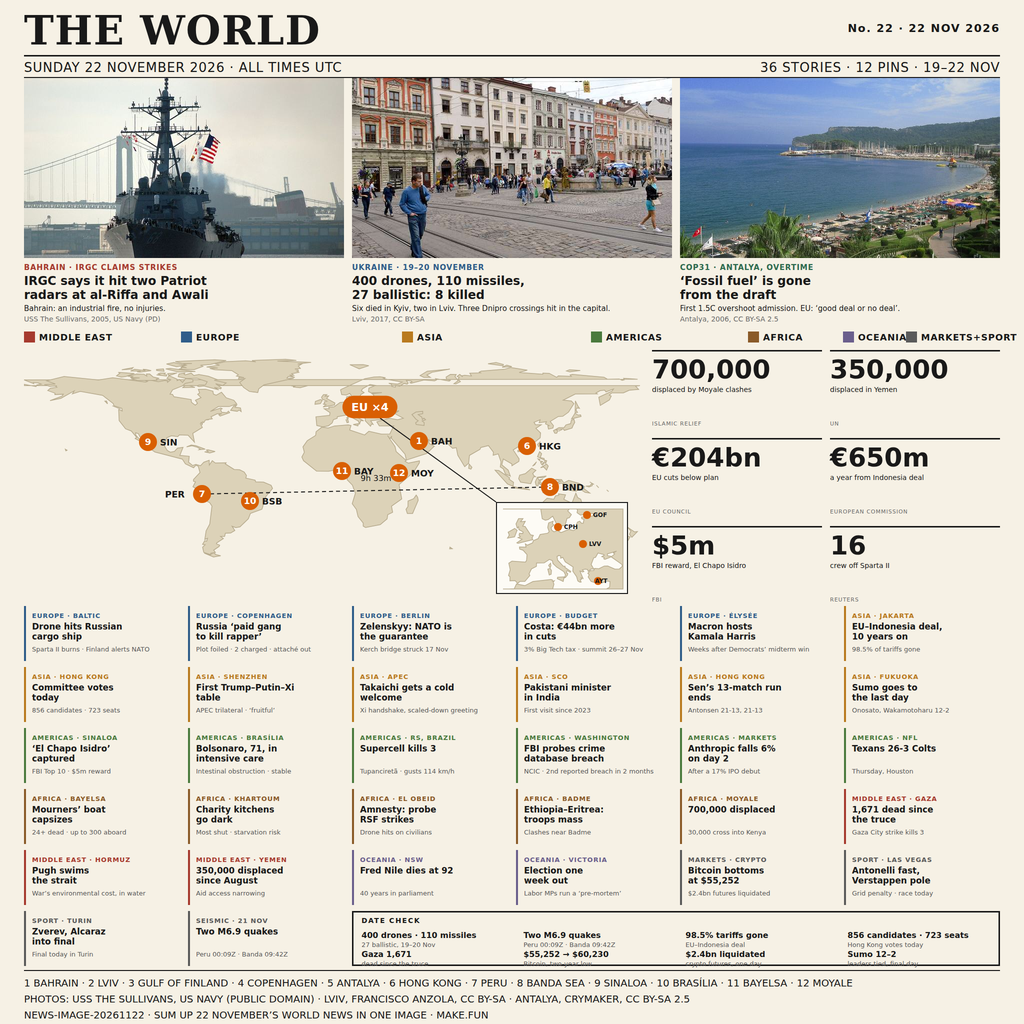
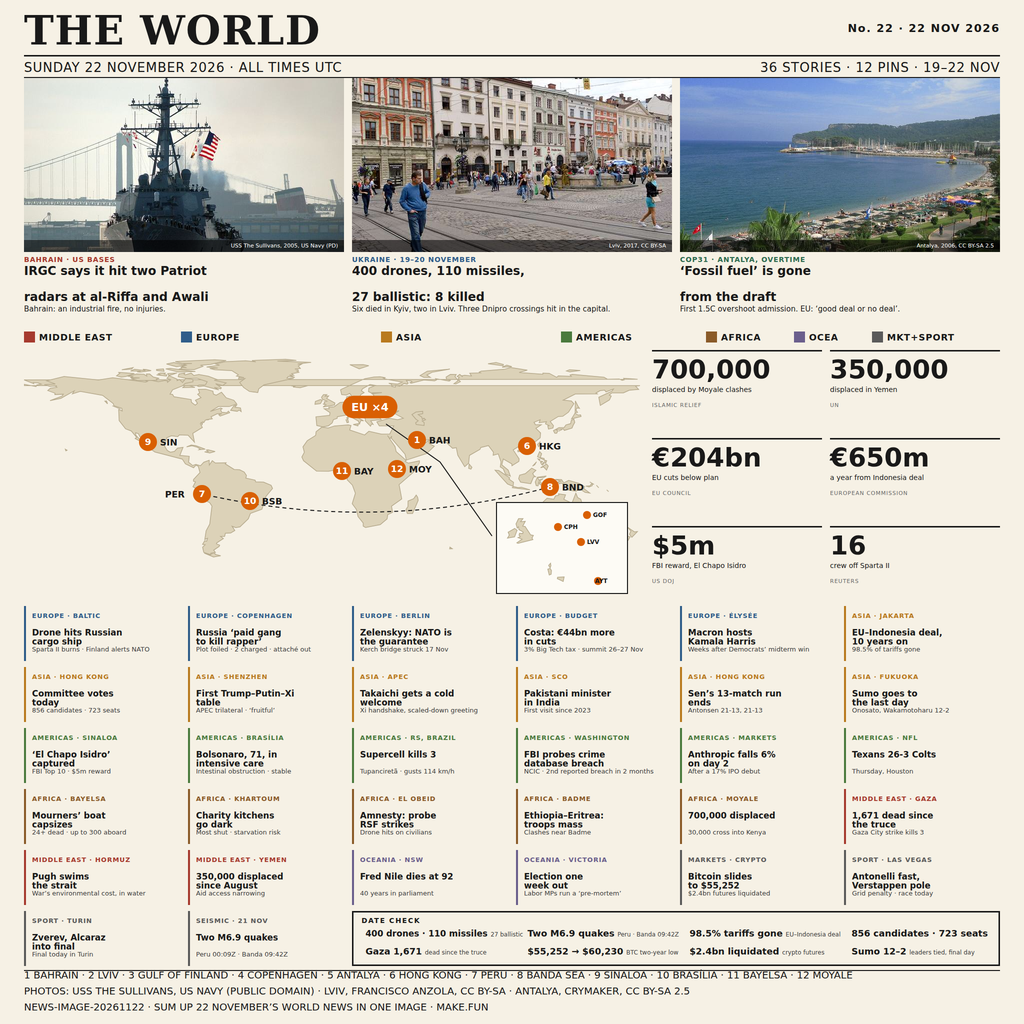
news-image-20261122 v2: Superbot synthesis fix round (DATE CHECK one-line, region rebalance, inset cleanup, hero caption rework, rail/footer fixes)

diff --git a/build/front.html b/build/front.html
@@ -10,11 +10,11 @@ body { width:2048px; height:2048px; background:#F6F1E5; font-family:'DejaVu Sans
 .datel { position:absolute; left:48px; top:120px; font-size:26px; letter-spacing:1px; }
 .dater { position:absolute; right:48px; top:120px; font-size:26px; letter-spacing:1px; }
 .hero { position:absolute; top:156px; width:640px; height:492px; }
-.hero img { width:640px; height:360px; display:block; object-fit:cover; }
-.hero .kick { margin-top:10px; font-size:15px; font-weight:bold; letter-spacing:1px; }
-.hero .head { margin-top:4px; font-size:24px; font-weight:bold; line-height:28px; }
-.hero .dek { margin-top:4px; font-size:15px; line-height:18px; }
-.hero .cred { margin-top:4px; font-size:14px; color:#6B6B6B; }
+.hero img { width:640px; height:348px; display:block; object-fit:cover; }
+.hero .kick { position:absolute; left:0; top:355px; font-size:14px; font-weight:bold; letter-spacing:1px; }
+.hero .head { position:absolute; left:0; top:360px; font-size:24px; font-weight:bold; line-height:52px; }
+.hero .dek { position:absolute; left:0; top:453px; font-size:15px; line-height:18px; }
+.hero .scrim { position:absolute; left:0; top:324px; width:640px; height:24px; background:rgba(0,0,0,0.55); color:#FFFFFF; font-size:11px; line-height:24px; text-align:right; padding-right:12px; }
 .key { position:absolute; top:648px; height:52px; }
 .key .sw { position:absolute; left:0; top:15px; width:22px; height:22px; }
 .key .nm { position:absolute; left:30px; top:16px; font-size:18px; font-weight:bold; letter-spacing:1px; white-space:nowrap; }
@@ -24,17 +24,17 @@ body { width:2048px; height:2048px; background:#F6F1E5; font-family:'DejaVu Sans
 .rail { position:absolute; width:340px; height:160px; border-top:3px solid #191919; }
 .rail .fig { font-size:52px; font-weight:bold; line-height:56px; margin-top:8px; }
 .rail .lab { font-size:14px; line-height:17px; margin-top:4px; }
-.rail .src { position:absolute; bottom:6px; left:0; font-size:11px; letter-spacing:1px; color:#6B6B6B; }
+.rail .src { position:absolute; top:101px; left:0; font-size:11px; letter-spacing:1px; color:#6B6B6B; }
 .card { position:absolute; width:312px; height:110px; }
 .card .edge { position:absolute; left:0; top:0; width:4px; height:110px; }
 .card .kick { position:absolute; left:16px; top:12px; font-size:13px; font-weight:bold; letter-spacing:1px; white-space:nowrap; }
-.card .head { position:absolute; left:16px; top:31px; width:284px; font-size:17px; font-weight:bold; line-height:20px; }
-.card .det { position:absolute; left:16px; top:79px; font-size:13px; color:#5A5A5A; white-space:nowrap; }
+.card .head { position:absolute; left:16px; top:44px; width:284px; font-size:17px; font-weight:bold; line-height:18.4px; }
+.card .det { position:absolute; left:16px; top:79px; font-size:13px; color:#404040; white-space:nowrap; }
 .dc { position:absolute; left:704px; top:1822px; width:1296px; height:110px; border:3px solid #191919; }
 .dc .lab { position:absolute; left:16px; top:8px; font-size:14px; font-weight:bold; letter-spacing:2px; }
-.dc .cell { position:absolute; width:316px; }
-.dc .fig { font-size:16px; font-weight:bold; white-space:nowrap; }
-.dc .sub { font-size:13px; color:#5A5A5A; margin-top:2px; white-space:nowrap; }
+.dc .cell { position:absolute; width:316px; line-height:18px; white-space:nowrap; }
+.dc .fig { font-size:18px; font-weight:bold; white-space:nowrap; }
+.dc .sub { font-size:12px; color:#404040; margin-left:6px; white-space:nowrap; }
 .foot { position:absolute; left:48px; font-size:20px; line-height:32px; }
 </style></head><body>
 
@@ -51,45 +51,44 @@ body { width:2048px; height:2048px; background:#F6F1E5; font-family:'DejaVu Sans
 <!-- HEROES 156-648 -->
 <div class="hero" style="left:48px;">
   <img src="hero1.jpg" alt="USS The Sullivans">
-  <div class="kick" style="color:#A63A2E;">BAHRAIN &middot; IRGC CLAIMS STRIKES</div>
+  <div class="kick" style="color:#A63A2E;">BAHRAIN &middot; US BASES</div>
   <div class="head">IRGC says it hit two Patriot<br>radars at al-Riffa and Awali</div>
   <div class="dek">Bahrain: an industrial fire, no injuries.</div>
-  <div class="cred">USS The Sullivans, 2005, US Navy (PD)</div>
+  <div class="scrim">USS The Sullivans, 2005, US Navy (PD)</div>
 </div>
 <div class="hero" style="left:704px;">
   <img src="hero2.jpg" alt="Lviv street">
   <div class="kick" style="color:#2F5D8A;">UKRAINE &middot; 19&ndash;20 NOVEMBER</div>
   <div class="head">400 drones, 110 missiles,<br>27 ballistic: 8 killed</div>
   <div class="dek">Six died in Kyiv, two in Lviv. Three Dnipro crossings hit in the capital.</div>
-  <div class="cred">Lviv, 2017, CC BY-SA</div>
+  <div class="scrim">Lviv, 2017, CC BY-SA</div>
 </div>
 <div class="hero" style="left:1360px;">
   <img src="hero3.jpg" alt="Antalya coast">
   <div class="kick" style="color:#2E6B4F;">COP31 &middot; ANTALYA, OVERTIME</div>
   <div class="head">&lsquo;Fossil fuel&rsquo; is gone<br>from the draft</div>
   <div class="dek">First 1.5C overshoot admission. EU: &lsquo;good deal or no deal&rsquo;.</div>
-  <div class="cred">Antalya, 2006, CC BY-SA 2.5</div>
+  <div class="scrim">Antalya, 2006, CC BY-SA 2.5</div>
 </div>
 
 <!-- REGION STRIP 648-700 -->
 <div class="key" style="left:48px; width:314px;"><div class="sw" style="background:#A63A2E;"></div><div class="nm">MIDDLE EAST</div></div>
-<div class="key" style="left:362px; width:442px;"><div class="sw" style="background:#2F5D8A;"></div><div class="nm">EUROPE</div></div>
-<div class="key" style="left:804px; width:378px;"><div class="sw" style="background:#B97A1E;"></div><div class="nm">ASIA</div></div>
-<div class="key" style="left:1182px; width:314px;"><div class="sw" style="background:#4A7A3D;"></div><div class="nm">AMERICAS</div></div>
-<div class="key" style="left:1496px; width:190px;"><div class="sw" style="background:#8A5A28;"></div><div class="nm">AFRICA</div></div>
-<div class="key" style="left:1686px; width:126px;"><div class="sw" style="background:#6A5E8C;"></div><div class="nm">OCEANIA</div></div>
-<div class="key" style="left:1812px; width:188px;"><div class="sw" style="background:#5A5A5A;"></div><div class="nm">MARKETS+SPORT</div></div>
+<div class="key" style="left:362px; width:400px;"><div class="sw" style="background:#2F5D8A;"></div><div class="nm">EUROPE</div></div>
+<div class="key" style="left:762px; width:360px;"><div class="sw" style="background:#B97A1E;"></div><div class="nm">ASIA</div></div>
+<div class="key" style="left:1122px; width:290px;"><div class="sw" style="background:#4A7A3D;"></div><div class="nm">AMERICAS</div></div>
+<div class="key" style="left:1412px; width:176px;"><div class="sw" style="background:#8A5A28;"></div><div class="nm">AFRICA</div></div>
+<div class="key" style="left:1588px; width:156px;"><div class="sw" style="background:#6A5E8C;"></div><div class="nm">OCEA</div></div>
+<div class="key" style="left:1744px; width:256px;"><div class="sw" style="background:#5A5A5A;"></div><div class="nm">MKT+SPORT</div></div>
 
 <!-- MAP + NUMBERS 700-1212 -->
 <svg width="1232" height="512" viewBox="0 0 1232 512" style="position:absolute; left:48px; top:700px;">
   <g transform="translate(-48,-700)" fill="#DCD2B8" stroke="#B7AB8E" stroke-width="1.5"><path d="M432.1,1109.2 L441.4,1111.6 L427.1,1113.9 L408.5,1106.3 L420.7,1109.8 L426.7,1105.4 L432.1,1109.2 Z"/><path d="M904.5,1097.4 L899.3,1097.6 L899.9,1094.3 L904.5,1097.4 Z"/><path d="M1161.6,1072.0 L1171.5,1072.3 L1170.2,1078.9 L1163.8,1079.9 L1159.3,1073.1 L1161.6,1072.0 Z"/><path d="M1256.1,1072.4 L1260.3,1073.6 L1256.3,1080.7 L1243.5,1088.7 L1234.4,1087.5 L1256.1,1072.4 Z"/><path d="M1261.6,1058.8 L1268.9,1063.7 L1274.9,1063.2 L1263.7,1074.6 L1258.9,1068.4 L1261.9,1062.3 L1254.8,1054.2 L1261.6,1058.8 Z"/><path d="M1235.9,1019.0 L1225.3,1013.2 L1235.9,1019.0 Z"/><path d="M835.3,994.6 L836.4,1000.7 L825.2,1026.9 L814.7,1027.1 L812.0,1018.7 L815.9,1013.1 L816.1,1002.1 L827.3,997.5 L832.4,990.2 L835.3,994.6 Z"/><path d="M1155.3,995.1 L1161.5,998.6 L1165.0,1009.9 L1173.4,1014.0 L1188.1,1030.2 L1187.9,1044.0 L1177.3,1062.5 L1164.7,1067.0 L1160.3,1063.8 L1155.5,1066.4 L1145.3,1064.1 L1136.7,1057.3 L1137.0,1053.8 L1132.3,1056.3 L1135.6,1049.6 L1129.4,1055.2 L1123.5,1048.8 L1113.4,1045.6 L1067.9,1055.7 L1057.6,1053.3 L1059.9,1045.9 L1051.9,1030.3 L1054.9,1030.8 L1052.1,1025.4 L1054.6,1017.9 L1054.9,1020.0 L1077.6,1012.0 L1094.1,996.5 L1107.6,998.6 L1111.0,991.7 L1117.7,990.5 L1117.0,987.7 L1131.1,989.7 L1127.7,998.7 L1143.9,1006.4 L1151.7,986.3 L1155.3,995.1 Z"/><path d="M1217.3,983.3 L1213.5,979.7 L1217.3,983.3 Z"/><path d="M1089.9,984.8 L1086.5,985.1 L1092.1,980.6 L1099.8,979.9 L1089.9,984.8 Z"/><path d="M1035.7,975.3 L1043.0,974.4 L1060.0,979.8 L1024.6,975.5 L1026.9,972.8 L1035.7,975.3 Z"/><path d="M1197.5,975.4 L1192.8,970.6 L1197.5,975.4 Z"/><path d="M1184.1,971.6 L1178.2,974.0 L1171.6,972.3 L1180.1,971.5 L1182.6,967.9 L1185.3,968.3 L1184.1,971.6 Z"/><path d="M1188.1,968.8 L1179.6,963.8 L1188.1,968.8 Z"/><path d="M1123.1,959.3 L1127.6,965.6 L1137.4,960.8 L1158.8,967.0 L1169.3,973.3 L1167.7,977.0 L1179.7,986.1 L1170.2,984.8 L1159.3,977.7 L1152.1,982.5 L1134.9,979.9 L1138.6,976.8 L1136.0,971.3 L1121.4,966.1 L1119.1,967.7 L1115.7,964.0 L1121.5,962.3 L1110.7,958.7 L1123.1,959.3 Z"/><path d="M1092.6,952.0 L1087.3,955.3 L1075.3,955.3 L1077.9,960.0 L1086.1,957.8 L1079.8,961.4 L1085.5,971.2 L1079.8,969.0 L1078.0,963.5 L1076.1,971.7 L1072.5,971.3 L1070.4,964.0 L1074.8,954.4 L1092.6,952.0 Z"/><path d="M1026.1,972.6 L1015.1,968.0 L990.1,940.4 L997.6,941.1 L1019.4,955.7 L1018.0,958.0 L1027.1,964.7 L1026.1,972.6 Z"/><path d="M1067.4,950.8 L1071.2,953.4 L1067.2,953.8 L1061.5,967.4 L1041.2,964.3 L1037.3,957.3 L1039.3,950.3 L1050.7,947.2 L1063.5,936.3 L1071.9,940.6 L1065.5,946.8 L1067.4,950.8 Z"/><path d="M1096.5,932.1 L1093.1,940.1 L1087.0,933.7 L1081.2,935.5 L1093.2,928.2 L1096.5,932.1 Z"/><path d="M941.9,938.4 L937.3,936.8 L938.3,928.1 L943.9,934.6 L941.9,938.4 Z"/><path d="M1088.3,926.8 L1084.9,930.3 L1082.8,928.4 L1088.6,924.1 L1088.3,926.8 Z"/><path d="M1069.5,929.5 L1065.0,932.2 L1073.0,923.7 L1069.5,929.5 Z"/><path d="M1081.1,922.2 L1085.3,923.0 L1081.5,926.3 L1081.1,922.2 Z"/><path d="M1093.5,921.4 L1091.1,927.2 L1089.3,920.3 L1093.5,921.4 Z"/><path d="M1079.9,918.8 L1079.0,921.3 L1075.8,917.7 L1079.9,918.8 Z"/><path d="M1079.2,903.4 L1083.3,907.4 L1080.6,915.2 L1088.2,916.8 L1088.6,920.3 L1074.9,913.4 L1079.2,903.4 Z"/><path d="M415.6,899.5 L430.2,903.1 L419.6,905.9 L409.2,903.8 L416.5,902.9 L412.8,900.1 L415.6,899.5 Z"/><path d="M1041.6,902.9 L1035.8,903.4 L1035.7,900.9 L1043.1,898.9 L1041.6,902.9 Z"/><path d="M131.7,901.7 L130.6,898.4 L134.2,900.5 L131.7,901.7 Z"/><path d="M391.3,891.2 L410.2,898.3 L397.9,899.5 L400.2,897.9 L394.6,894.6 L384.1,891.6 L373.2,893.7 L382.5,890.0 L391.3,891.2 Z"/><path d="M1078.7,891.2 L1077.2,893.5 L1075.0,889.0 L1079.8,884.0 L1078.7,891.2 Z"/><path d="M1124.8,858.9 L1117.0,862.2 L1124.8,858.9 Z"/><path d="M717.1,847.3 L715.7,851.8 L706.5,849.0 L717.1,847.3 Z"/><path d="M695.5,838.8 L697.1,844.6 L694.1,845.3 L691.9,839.5 L695.5,838.8 Z"/><path d="M1146.4,850.4 L1144.0,856.1 L1128.7,860.8 L1126.3,857.6 L1112.3,859.6 L1115.7,861.7 L1113.4,866.5 L1109.6,866.6 L1106.9,861.3 L1117.8,855.2 L1128.3,854.9 L1131.9,849.9 L1141.2,847.3 L1142.7,840.6 L1147.8,838.3 L1149.6,844.6 L1146.4,850.4 Z"/><path d="M696.7,836.1 L695.6,838.3 L693.2,835.8 L696.1,833.7 L696.7,836.1 Z"/><path d="M1156.5,830.3 L1161.3,829.8 L1162.1,832.9 L1143.0,837.8 L1149.9,826.4 L1156.5,830.3 Z"/><path d="M241.3,818.0 L224.7,811.6 L241.3,818.0 Z"/><path d="M471.9,811.8 L469.6,814.3 L481.0,815.9 L482.4,823.3 L478.4,820.2 L474.4,822.6 L461.2,820.6 L467.7,811.7 L474.4,809.3 L471.9,811.8 Z"/><path d="M209.8,802.3 L213.1,802.1 L215.1,807.6 L209.8,802.3 Z"/><path d="M1155.6,811.7 L1159.0,816.7 L1154.0,815.8 L1151.9,819.9 L1155.1,824.8 L1150.3,825.2 L1150.7,801.8 L1155.6,811.7 Z"/><path d="M640.8,807.3 L629.9,808.6 L630.8,802.7 L641.0,799.1 L644.6,800.8 L640.8,807.3 Z"/><path d="M653.7,789.2 L650.1,792.3 L657.3,791.9 L653.3,796.8 L669.8,806.0 L669.0,810.1 L646.1,813.9 L652.3,809.7 L646.0,808.1 L649.6,807.2 L648.3,803.8 L653.9,802.4 L644.9,798.7 L643.0,794.5 L646.9,789.2 L653.7,789.2 Z"/><path d="M372.6,769.2 L389.9,774.7 L365.5,775.3 L372.6,769.2 Z"/><path d="M614.3,767.0 L617.4,770.8 L600.2,775.4 L586.1,774.1 L589.5,772.8 L582.0,771.4 L587.9,770.0 L580.7,769.4 L614.3,767.0 Z"/><path d="M48.0,759.8 L67.4,767.3 L66.6,765.2 L75.9,765.7 L82.6,768.3 L73.6,769.9 L72.1,773.2 L48.4,768.6 L48.0,771.2 L1280.0,771.2 L1271.1,772.2 L1277.4,778.8 L1258.4,780.6 L1246.9,785.7 L1223.7,785.7 L1218.5,790.3 L1222.5,792.1 L1218.8,800.0 L1200.6,810.9 L1197.6,794.5 L1224.1,782.1 L1226.9,778.1 L1212.0,783.8 L1209.2,780.3 L1200.3,781.3 L1191.8,786.0 L1194.6,787.8 L1150.6,788.1 L1126.4,800.3 L1142.8,801.9 L1147.8,807.4 L1137.0,824.3 L1125.6,832.6 L1116.7,832.9 L1100.4,842.9 L1107.0,851.4 L1105.8,856.2 L1096.9,858.2 L1095.6,851.5 L1098.1,851.1 L1090.8,847.6 L1092.9,843.5 L1078.3,845.4 L1080.3,839.5 L1068.0,844.5 L1070.9,849.5 L1082.7,849.5 L1071.8,856.7 L1081.2,865.9 L1080.4,875.7 L1060.6,891.2 L1043.1,895.1 L1042.0,898.1 L1035.4,894.2 L1026.4,899.8 L1038.2,917.8 L1037.7,922.8 L1023.9,931.5 L1023.6,927.8 L1006.6,917.9 L1003.6,929.7 L1016.4,940.3 L1020.7,952.3 L1011.0,948.1 L1006.5,937.6 L1000.5,933.8 L1002.0,923.5 L996.5,907.8 L986.3,910.4 L986.8,904.2 L976.9,891.2 L961.6,894.9 L960.0,898.7 L938.9,910.8 L937.3,926.5 L929.4,933.3 L915.6,910.5 L912.6,895.3 L905.2,896.6 L891.1,883.7 L860.4,882.8 L857.3,878.8 L851.2,880.7 L840.3,876.7 L835.5,870.2 L828.2,870.7 L837.9,885.6 L840.6,882.6 L841.3,887.7 L848.8,887.4 L856.9,880.9 L858.5,887.0 L868.7,892.5 L853.2,907.0 L812.8,920.1 L810.0,908.3 L782.5,876.2 L783.5,872.1 L780.1,877.4 L775.0,871.1 L790.2,893.4 L792.3,903.1 L812.2,920.8 L810.2,922.6 L816.7,926.3 L838.9,921.8 L838.7,925.7 L827.4,944.0 L798.2,969.3 L803.5,997.8 L783.0,1012.3 L785.3,1024.6 L775.5,1029.2 L774.2,1037.8 L760.6,1049.2 L731.1,1055.0 L726.4,1052.3 L726.4,1046.1 L716.1,1033.1 L712.8,1018.9 L704.4,1007.4 L710.8,986.5 L704.8,970.3 L694.1,959.2 L696.2,945.4 L693.1,942.4 L684.2,943.9 L678.8,938.2 L657.3,942.6 L633.2,942.3 L607.1,921.4 L603.7,914.1 L608.7,904.5 L605.9,893.7 L614.6,881.3 L631.3,870.9 L632.2,863.4 L643.7,854.3 L656.6,856.0 L669.0,851.9 L696.5,849.8 L702.0,851.0 L699.4,859.9 L729.3,869.9 L737.7,862.6 L762.9,868.2 L779.6,867.9 L787.7,851.7 L758.6,851.7 L753.6,843.7 L778.7,836.5 L795.2,839.5 L806.7,836.6 L789.5,827.3 L797.9,821.6 L783.6,824.4 L788.3,827.7 L780.0,829.8 L775.1,827.1 L778.0,824.9 L769.2,823.5 L758.7,834.9 L762.6,839.2 L741.4,841.5 L746.3,848.9 L743.1,848.1 L741.0,852.4 L730.4,841.5 L730.9,837.3 L709.0,825.9 L707.1,830.6 L727.2,841.7 L721.7,841.0 L719.1,847.9 L716.7,842.1 L694.4,829.8 L674.6,833.5 L674.4,836.8 L666.8,839.3 L664.4,845.8 L656.7,851.7 L645.6,853.8 L633.6,851.1 L631.9,833.6 L659.3,830.8 L659.9,825.1 L648.3,817.5 L658.5,817.6 L657.4,814.4 L668.6,813.4 L680.1,805.0 L691.8,803.7 L693.2,793.6 L700.2,791.8 L701.3,795.4 L697.0,798.2 L701.4,802.4 L731.3,801.2 L736.8,799.0 L737.9,792.7 L746.6,793.8 L747.6,789.9 L743.9,787.6 L763.7,785.3 L742.3,785.8 L737.0,783.3 L737.7,776.3 L750.9,770.8 L739.9,769.1 L725.1,777.5 L722.6,781.5 L728.3,785.1 L721.6,789.0 L718.4,796.4 L708.3,798.5 L699.4,786.8 L692.7,790.1 L683.4,789.3 L681.1,779.7 L684.2,777.9 L729.6,757.4 L748.0,754.0 L760.4,753.5 L771.1,755.6 L766.7,756.4 L770.4,758.1 L804.5,764.1 L795.4,768.3 L777.6,766.5 L783.1,768.6 L783.6,772.8 L790.7,774.4 L791.2,770.7 L799.5,772.5 L808.1,766.9 L814.4,768.1 L816.4,766.1 L812.7,761.0 L822.3,761.9 L824.2,763.5 L819.9,765.4 L822.6,766.4 L847.8,760.1 L869.1,761.8 L873.0,759.9 L871.2,757.3 L898.5,762.3 L900.7,760.8 L893.0,758.4 L892.2,754.0 L900.8,748.8 L912.4,749.0 L909.9,752.9 L916.1,761.4 L907.9,767.4 L911.9,767.8 L920.8,763.3 L915.9,757.9 L918.6,755.1 L914.2,752.8 L919.5,748.8 L925.3,753.6 L923.8,751.6 L929.5,750.4 L942.9,751.9 L939.5,746.5 L961.1,745.7 L958.3,744.2 L962.3,742.3 L1008.8,738.6 L1021.1,735.0 L1054.6,740.3 L1038.4,745.0 L1085.6,748.4 L1085.8,746.3 L1098.5,746.7 L1113.3,754.7 L1116.6,751.7 L1142.7,752.7 L1140.2,750.0 L1144.7,748.8 L1208.1,754.4 L1214.8,758.5 L1238.4,758.1 L1244.3,760.6 L1248.6,759.7 L1247.3,756.6 L1275.2,758.6 L48.0,759.8 Z"/><path d="M832.1,838.6 L836.5,841.5 L831.2,845.6 L832.4,849.1 L848.2,850.9 L848.4,845.2 L844.3,842.1 L851.3,839.5 L847.8,836.2 L844.7,839.0 L843.7,834.3 L836.2,829.1 L845.5,827.3 L845.5,822.7 L832.0,824.0 L823.8,829.1 L832.1,838.6 Z"/><path d="M354.1,758.3 L354.1,761.2 L358.7,759.0 L365.1,764.9 L371.3,757.2 L381.2,757.9 L385.8,759.3 L385.9,763.7 L370.5,766.7 L365.2,771.7 L345.2,779.6 L340.0,788.3 L345.0,788.8 L348.1,793.6 L382.4,799.1 L382.9,804.5 L390.5,810.3 L395.0,806.5 L390.8,800.5 L402.1,795.2 L395.3,788.7 L399.3,785.8 L396.7,778.7 L411.3,778.4 L425.8,782.3 L426.9,788.3 L432.5,790.4 L443.0,784.4 L452.5,795.7 L467.8,800.6 L473.4,807.7 L458.6,813.1 L436.8,813.1 L420.7,822.8 L441.4,816.0 L444.4,817.4 L441.2,819.3 L443.4,824.5 L453.5,825.5 L456.9,822.3 L459.3,825.4 L440.3,832.1 L437.6,829.5 L443.5,827.2 L434.2,827.6 L422.1,833.6 L424.6,837.6 L411.8,839.6 L417.8,839.6 L410.9,840.1 L407.6,845.2 L405.5,843.6 L404.1,850.1 L402.7,844.6 L400.6,847.3 L404.8,854.9 L385.6,866.6 L388.9,884.3 L376.2,870.4 L358.8,869.8 L355.5,873.2 L342.8,871.5 L333.4,875.5 L329.1,892.2 L334.5,901.0 L340.8,904.4 L349.0,902.8 L355.0,896.3 L366.1,894.7 L359.7,910.8 L378.5,912.6 L377.2,924.4 L385.3,931.0 L391.7,928.7 L401.0,931.4 L407.6,924.5 L418.4,920.6 L418.6,930.2 L424.6,921.4 L430.6,926.0 L452.2,925.5 L450.5,927.7 L468.4,939.0 L479.3,939.6 L488.4,944.0 L493.0,951.1 L491.6,956.2 L510.3,960.4 L511.4,963.7 L527.2,964.2 L542.2,970.6 L545.1,976.9 L531.7,993.1 L523.9,1018.4 L500.9,1026.8 L496.7,1037.6 L479.9,1053.8 L471.6,1055.2 L464.1,1052.5 L469.7,1061.0 L461.3,1066.1 L450.7,1066.4 L449.3,1072.7 L441.1,1072.8 L446.8,1077.1 L433.7,1085.6 L432.7,1087.7 L439.4,1090.4 L438.2,1092.9 L427.4,1100.3 L430.8,1104.9 L421.6,1106.5 L421.0,1109.1 L407.5,1104.7 L405.2,1094.5 L410.3,1089.5 L405.1,1088.7 L409.5,1081.4 L413.4,1082.4 L415.1,1076.6 L409.6,1079.0 L412.2,1061.7 L419.5,1048.2 L423.9,1012.2 L419.4,1005.4 L403.9,997.7 L391.0,976.5 L385.9,973.5 L391.0,963.6 L386.9,962.4 L387.0,959.0 L400.0,945.1 L396.4,932.3 L391.7,930.6 L387.2,935.5 L370.8,927.7 L364.6,918.2 L309.8,904.0 L303.0,899.3 L301.1,891.2 L279.9,873.6 L276.8,867.3 L271.2,865.5 L271.6,870.2 L289.5,890.1 L280.1,885.6 L279.7,882.0 L270.3,877.1 L273.3,874.7 L262.6,862.0 L251.2,857.6 L238.3,841.3 L237.3,818.9 L244.5,822.0 L243.6,816.6 L227.9,811.4 L226.5,807.2 L205.2,790.7 L160.5,782.8 L144.8,787.7 L148.5,781.7 L121.8,796.7 L100.1,801.2 L124.2,792.2 L126.6,788.4 L109.7,789.1 L110.0,786.4 L95.5,781.1 L100.8,776.4 L113.8,774.6 L111.3,772.8 L113.8,771.7 L99.5,772.7 L88.7,769.2 L110.7,767.9 L93.3,761.6 L128.1,753.0 L196.9,760.0 L225.5,755.5 L291.4,764.3 L295.1,762.9 L291.6,761.7 L293.8,760.7 L300.7,760.3 L316.8,763.6 L329.7,760.9 L335.1,761.9 L335.0,764.6 L341.5,759.5 L333.9,756.6 L338.2,751.4 L354.1,758.3 Z"/><path d="M273.3,748.0 L287.8,748.5 L293.7,752.2 L293.0,748.1 L299.5,748.1 L306.5,754.1 L318.4,756.8 L312.4,758.3 L313.5,760.4 L276.2,761.1 L262.4,757.0 L279.3,755.8 L260.5,755.3 L266.6,753.2 L255.4,752.5 L273.3,748.0 Z"/><path d="M367.8,747.9 L370.5,749.7 L382.3,746.2 L387.7,751.0 L397.7,749.1 L416.8,752.5 L434.8,759.2 L428.5,760.5 L452.3,765.8 L445.3,771.1 L431.2,767.5 L442.7,775.7 L441.5,777.7 L428.6,774.7 L437.6,779.8 L407.9,772.0 L398.1,773.3 L395.2,772.3 L397.4,770.2 L410.9,769.8 L414.4,763.4 L393.8,756.4 L373.3,757.0 L356.4,753.4 L357.9,748.0 L370.3,746.1 L367.8,747.9 Z"/><path d="M320.6,746.0 L330.7,746.2 L328.4,748.4 L333.6,749.6 L333.0,752.2 L313.2,749.7 L320.3,749.2 L316.5,747.3 L320.6,746.0 Z"/><path d="M345.1,749.0 L337.5,751.0 L335.4,747.1 L354.3,745.9 L345.1,749.0 Z"/><path d="M251.8,752.9 L242.8,754.3 L233.0,751.6 L239.8,746.4 L236.5,744.7 L268.7,747.0 L251.8,752.9 Z"/><path d="M1160.5,741.1 L1139.5,743.8 L1132.8,741.9 L1139.1,739.4 L1160.5,741.1 Z"/><path d="M326.9,737.8 L328.1,742.7 L313.2,741.1 L313.0,738.9 L326.9,737.8 Z"/><path d="M293.7,739.2 L302.3,741.3 L280.0,744.3 L274.3,743.5 L281.4,742.2 L261.2,742.0 L269.1,738.5 L290.7,741.3 L285.9,738.6 L293.7,739.2 Z"/><path d="M860.9,754.8 L847.7,754.7 L840.1,751.2 L854.4,742.4 L899.6,738.3 L864.1,744.6 L853.7,750.1 L860.9,754.8 Z"/><path d="M340.0,736.7 L390.8,742.9 L356.8,744.0 L331.6,737.7 L340.0,736.7 Z"/><path d="M266.3,735.1 L263.2,738.3 L243.6,739.5 L266.3,735.1 Z"/><path d="M1023.6,733.3 L1004.3,734.4 L1013.4,730.3 L1023.6,733.3 Z"/><path d="M726.5,729.3 L737.7,731.4 L718.5,737.6 L699.7,729.4 L726.5,729.3 Z"/><path d="M1006.0,731.6 L976.0,727.5 L992.3,724.9 L1006.9,729.1 L1006.0,731.6 Z"/><path d="M366.2,729.4 L370.3,730.3 L353.2,733.5 L333.0,728.0 L347.7,724.9 L366.2,729.4 Z"/><path d="M429.6,719.6 L452.3,721.0 L420.4,729.0 L400.8,730.4 L406.0,732.6 L388.3,739.3 L357.7,738.5 L363.6,736.5 L362.0,734.4 L373.2,735.4 L363.0,733.1 L372.8,730.3 L366.5,727.7 L383.9,727.1 L364.2,727.0 L350.6,723.1 L429.6,719.6 Z"/><path d="M571.3,718.4 L592.7,720.7 L554.8,722.2 L622.2,724.8 L595.4,727.9 L603.3,728.1 L596.6,732.0 L600.8,737.0 L589.8,738.0 L596.1,739.5 L596.9,742.0 L593.3,742.2 L597.7,744.7 L583.3,747.5 L587.7,750.7 L579.2,750.3 L589.6,755.0 L576.6,752.8 L573.8,756.2 L587.5,756.5 L527.8,769.8 L517.5,777.7 L515.5,785.1 L498.8,782.9 L487.3,775.0 L479.3,764.9 L489.9,757.1 L476.9,758.0 L478.0,754.6 L488.1,755.3 L472.9,752.2 L476.7,749.5 L463.5,741.2 L429.6,739.6 L419.6,737.0 L435.5,735.9 L413.2,734.0 L439.1,730.2 L431.2,728.1 L449.6,723.4 L491.5,721.5 L511.6,723.7 L504.0,721.0 L571.3,718.4 Z"/></g>
 </svg>
 <svg width="1232" height="512" viewBox="0 0 1232 512" style="position:absolute; left:48px; top:700px;">
-  <line x1="1052" y1="274" x2="356" y2="288" stroke="#191919" stroke-width="2" stroke-dasharray="8 6"/>
-  <line x1="712" y1="136" x2="944" y2="304" stroke="#191919" stroke-width="2"/>
-  <text x="704" y="262" font-family="DejaVu Sans" font-size="16" fill="#191919" text-anchor="middle">9h 33m</text>
+  <path d="M1052,274 Q704,367 356,288" fill="none" stroke="#191919" stroke-width="2" stroke-dasharray="8 6"/>
+  <polyline points="724,148 832,224 936,372" fill="none" stroke="#191919" stroke-width="2"/>
 </svg>
-<div class="pin" style="left:838px; top:882px;">1</div><div class="plab" style="left:862px; top:872px;">BAH</div>
+<div class="pin" style="left:834px; top:880px;">1</div><div class="plab" style="left:858px; top:870px;">BAH</div>
 <div class="badge" style="left:740px; top:814px;">EU &times;4</div>
 <div class="pin" style="left:1054px; top:892px;">6</div><div class="plab" style="left:1078px; top:882px;">HKG</div>
 <div class="pin" style="left:404px; top:988px;">7</div><div class="plab" style="left:330px; top:978px;">PER</div>
@@ -97,14 +96,14 @@ body { width:2048px; height:2048px; background:#F6F1E5; font-family:'DejaVu Sans
 <div class="pin" style="left:296px; top:884px;">9</div><div class="plab" style="left:320px; top:874px;">SIN</div>
 <div class="pin" style="left:500px; top:1002px;">10</div><div class="plab" style="left:524px; top:992px;">BSB</div>
 <div class="pin" style="left:684px; top:942px;">11</div><div class="plab" style="left:708px; top:932px;">BAY</div>
-<div class="pin" style="left:798px; top:946px;">12</div><div class="plab" style="left:822px; top:936px;">MOY</div>
+<div class="pin" style="left:794px; top:938px;">12</div><div class="plab" style="left:818px; top:928px;">MOY</div>
 <!-- EUROPE INSET 992,1004 264x184 -->
 <div style="position:absolute; left:992px; top:1004px; width:264px; height:184px; background:#FDFBF5; border:2px solid #191919;">
   <svg width="264" height="184" viewBox="0 0 264 184">
-    <g fill="#DCD2B8" stroke="#B7AB8E" stroke-width="1.5"><path d="M134.3,147.8 L132.4,157.0 L120.6,151.4 L121.2,148.4 L134.3,147.8 Z"/><path d="M106.3,130.8 L108.9,134.9 L108.3,142.4 L104.5,144.0 L101.6,132.3 L106.3,130.8 Z"/><path d="M107.8,125.4 L106.3,129.8 L103.3,124.8 L107.1,120.5 L107.8,125.4 Z"/><path d="M35.2,67.7 L21.0,70.2 L24.6,64.2 L22.3,58.4 L35.4,51.0 L40.2,54.5 L35.2,67.7 Z"/><path d="M52.0,31.2 L47.2,37.4 L56.6,36.7 L51.5,46.4 L56.1,46.8 L67.4,63.8 L72.8,64.9 L70.0,70.2 L71.8,73.2 L42.0,80.8 L39.7,79.7 L50.2,72.4 L41.9,69.2 L46.6,67.4 L44.1,64.3 L45.0,60.6 L51.6,61.1 L52.2,57.8 L43.8,53.2 L42.9,47.5 L40.5,50.2 L38.0,41.8 L43.1,31.3 L52.0,31.2 Z"/><path d="M12.0,12.0 L12.0,12.0 L12.0,12.0 L12.0,12.0 L12.0,12.0 L12.0,12.0 L12.0,12.0 L12.0,12.0 L12.0,12.0 L12.0,12.0 L12.0,12.0 L12.0,12.0 L12.0,12.0 L12.0,12.0 L12.0,12.0 L252.0,12.0 L252.0,12.0 L252.0,12.0 L252.0,12.0 L252.0,12.0 L252.0,14.0 L252.0,24.1 L252.0,20.1 L252.0,24.6 L252.0,22.5 L252.0,24.2 L252.0,33.5 L252.0,37.1 L252.0,45.4 L252.0,45.6 L252.0,50.4 L252.0,52.8 L252.0,55.7 L252.0,62.3 L252.0,63.7 L252.0,69.5 L252.0,74.8 L252.0,49.8 L252.0,41.9 L252.0,35.8 L252.0,34.5 L252.0,16.9 L252.0,12.0 L252.0,12.0 L252.0,14.0 L252.0,20.3 L252.0,13.3 L252.0,15.2 L252.0,24.8 L252.0,28.3 L252.0,30.4 L252.0,26.3 L252.0,25.4 L252.0,28.2 L252.0,28.9 L252.0,53.5 L252.0,54.3 L252.0,59.1 L252.0,56.6 L252.0,62.9 L252.0,67.8 L252.0,73.5 L252.0,89.4 L252.0,101.7 L252.0,118.3 L252.0,121.6 L252.0,118.9 L252.0,126.6 L252.0,132.7 L252.0,139.1 L252.0,142.2 L252.0,156.1 L252.0,165.8 L252.0,169.8 L252.0,156.4 L252.0,155.5 L252.0,150.6 L252.0,148.5 L252.0,140.3 L252.0,138.1 L252.0,144.0 L252.0,135.3 L252.0,132.3 L252.0,142.0 L252.0,142.3 L252.0,144.9 L252.0,152.3 L252.0,154.0 L252.0,149.9 L252.0,152.3 L252.0,155.3 L252.0,156.9 L252.0,166.8 L252.0,169.9 L252.0,172.0 L252.0,172.0 L252.0,172.0 L252.0,172.0 L252.0,172.0 L252.0,172.0 L252.0,172.0 L252.0,172.0 L252.0,172.0 L252.0,172.0 L252.0,172.0 L252.0,172.0 L252.0,172.0 L252.0,172.0 L252.0,172.0 L252.0,172.0 L252.0,172.0 L252.0,172.0 L252.0,172.0 L252.0,172.0 L252.0,172.0 L252.0,172.0 L252.0,172.0 L252.0,172.0 L252.0,172.0 L252.0,172.0 L252.0,172.0 L252.0,172.0 L252.0,172.0 L252.0,172.0 L252.0,172.0 L252.0,172.0 L252.0,172.0 L252.0,172.0 L252.0,172.0 L252.0,172.0 L252.0,172.0 L252.0,172.0 L252.0,172.0 L252.0,172.0 L252.0,172.0 L252.0,172.0 L252.0,172.0 L252.0,172.0 L252.0,172.0 L252.0,172.0 L252.0,172.0 L252.0,172.0 L252.0,172.0 L252.0,172.0 L252.0,172.0 L252.0,172.0 L252.0,172.0 L252.0,172.0 L252.0,172.0 L252.0,172.0 L252.0,172.0 L252.0,172.0 L252.0,172.0 L252.0,172.0 L252.0,172.0 L252.0,172.0 L252.0,172.0 L252.0,172.0 L252.0,172.0 L252.0,172.0 L252.0,172.0 L252.0,172.0 L252.0,172.0 L252.0,172.0 L252.0,172.0 L252.0,172.0 L252.0,172.0 L252.0,172.0 L252.0,172.0 L252.0,172.0 L252.0,172.0 L252.0,172.0 L252.0,172.0 L252.0,172.0 L252.0,172.0 L252.0,172.0 L252.0,172.0 L252.0,172.0 L252.0,172.0 L252.0,172.0 L239.3,172.0 L236.4,172.0 L231.9,172.0 L221.5,172.0 L219.2,172.0 L220.5,172.0 L216.1,172.0 L209.4,172.0 L224.0,172.0 L223.2,172.0 L229.2,172.0 L231.9,172.0 L236.0,172.0 L239.9,172.0 L252.0,172.0 L252.0,172.0 L252.0,172.0 L252.0,172.0 L252.0,172.0 L252.0,172.0 L244.3,172.0 L239.6,172.0 L237.8,172.0 L240.6,172.0 L239.5,172.0 L245.2,172.0 L246.6,172.0 L240.7,172.0 L231.6,172.0 L219.9,172.0 L223.4,172.0 L222.9,172.0 L210.1,172.0 L211.6,172.0 L208.5,172.0 L190.8,172.0 L179.9,172.0 L165.7,172.0 L152.5,172.0 L146.4,172.0 L146.3,172.0 L132.9,172.0 L128.7,172.0 L117.8,172.0 L117.7,172.0 L125.9,172.0 L126.2,172.0 L118.3,172.0 L104.4,172.0 L108.9,172.0 L107.1,172.0 L103.1,172.0 L91.5,172.0 L84.6,172.0 L73.6,172.0 L56.6,172.0 L44.7,172.0 L31.9,172.0 L25.3,172.0 L12.0,172.0 L12.0,172.0 L12.0,172.0 L12.0,172.0 L12.0,172.0 L12.0,172.0 L12.0,172.0 L12.0,172.0 L12.0,172.0 L22.8,172.0 L21.7,172.0 L24.0,172.0 L34.6,171.4 L39.0,161.9 L55.7,165.3 L71.9,157.1 L107.6,152.9 L110.7,153.5 L110.6,156.4 L114.7,155.4 L112.4,158.2 L113.9,162.3 L111.3,172.0 L133.1,172.0 L135.2,172.0 L150.2,172.0 L154.5,172.0 L154.8,172.0 L161.1,172.0 L193.8,172.0 L203.0,172.0 L207.4,172.0 L215.4,172.0 L218.9,172.0 L225.3,168.3 L226.0,156.9 L219.6,156.0 L209.8,160.0 L206.2,156.9 L197.3,159.8 L188.2,156.8 L182.3,148.0 L184.5,143.5 L181.6,140.8 L186.6,135.3 L193.4,135.1 L195.3,130.7 L203.8,131.5 L214.3,126.2 L221.6,126.1 L235.8,132.3 L244.8,131.9 L250.7,126.5 L249.6,122.6 L228.3,107.7 L235.3,102.0 L232.8,99.8 L239.2,96.2 L220.7,101.9 L221.0,105.4 L227.7,106.5 L226.8,108.5 L215.9,112.8 L213.5,111.6 L214.4,108.9 L209.6,107.3 L214.6,104.3 L213.3,103.0 L202.0,100.1 L197.0,108.9 L193.5,109.6 L188.3,123.0 L193.4,131.7 L188.1,132.0 L182.5,136.8 L181.1,133.0 L176.1,132.3 L170.7,133.8 L173.8,137.0 L171.6,137.9 L165.9,136.2 L172.2,151.1 L168.1,149.6 L169.4,152.5 L166.6,153.1 L168.2,158.2 L165.3,158.2 L161.6,155.7 L159.2,147.4 L151.6,136.3 L152.2,127.9 L136.5,117.7 L131.6,108.7 L127.3,110.3 L127.3,105.8 L123.7,104.9 L120.1,107.0 L121.3,114.3 L132.6,126.5 L136.1,126.5 L136.0,128.9 L147.5,136.8 L146.6,138.8 L140.3,135.2 L138.4,138.9 L141.6,141.0 L141.1,144.0 L136.9,149.2 L135.0,149.7 L136.9,143.6 L133.8,137.4 L119.1,128.0 L112.0,121.0 L110.7,115.3 L104.8,112.8 L94.3,119.8 L79.1,120.1 L78.8,126.9 L68.9,131.9 L64.1,141.7 L65.8,144.9 L55.8,156.7 L45.9,156.7 L41.4,160.9 L36.3,155.2 L25.8,155.6 L26.0,147.6 L23.0,144.9 L26.4,133.4 L23.6,120.4 L29.9,116.3 L56.9,118.2 L59.2,114.7 L60.0,103.3 L52.2,94.5 L45.4,92.3 L44.9,88.1 L58.1,88.3 L56.7,81.8 L60.9,84.3 L71.3,79.8 L72.6,75.2 L82.3,71.3 L86.3,62.9 L101.4,60.4 L104.4,57.6 L101.4,49.0 L103.3,39.9 L112.3,36.4 L110.9,41.2 L113.8,43.7 L108.2,49.3 L109.5,54.3 L113.9,57.7 L121.0,55.0 L128.1,59.1 L143.7,52.8 L152.7,55.3 L159.9,50.9 L159.1,41.8 L161.2,38.2 L165.4,36.3 L169.0,40.5 L172.5,40.4 L173.9,32.7 L169.5,31.4 L169.1,28.1 L189.7,26.4 L194.8,23.3 L190.1,20.6 L167.0,24.3 L160.1,19.3 L161.1,13.7 L158.9,12.0 L161.1,12.0 L178.2,12.0 L171.6,12.0 L163.9,12.0 L159.6,12.0 L160.3,12.0 L144.7,12.0 L141.4,15.8 L148.8,23.0 L144.8,29.4 L140.1,30.7 L135.9,45.7 L130.5,45.1 L128.0,49.7 L122.9,49.9 L111.4,26.5 L102.6,33.1 L96.7,34.4 L90.5,31.5 L87.5,12.2 L91.6,12.0 L112.1,12.0 L130.9,12.0 L150.6,12.0 L167.7,12.0 L174.4,12.0 L190.5,12.0 L204.4,12.0 L198.7,12.0 L203.6,12.0 L208.1,12.0 L227.6,12.0 L247.8,12.0 L248.1,12.0 L235.9,12.0 L212.8,12.0 L220.1,12.0 L220.6,12.0 L229.8,12.0 L227.6,12.0 L230.6,12.0 L241.3,12.0 L245.1,12.0 L242.1,12.0 L252.0,12.0 L252.0,12.0 L252.0,12.0 L252.0,12.0 L252.0,12.0 L252.0,12.0 L252.0,12.0 L252.0,12.0 L252.0,12.0 L252.0,12.0 L252.0,12.0 L252.0,12.0 L252.0,12.0 L252.0,12.0 L252.0,12.0 L252.0,12.0 L252.0,12.0 L252.0,12.0 L252.0,12.0 L252.0,12.0 L252.0,12.0 L252.0,12.0 L252.0,12.0 L252.0,12.0 L252.0,12.0 L252.0,12.0 L252.0,12.0 L252.0,12.0 L252.0,12.0 L252.0,12.0 L252.0,12.0 L252.0,12.0 L252.0,12.0 L252.0,12.0 L252.0,12.0 L252.0,12.0 L252.0,12.0 L252.0,12.0 L252.0,12.0 L252.0,12.0 L252.0,12.0 L252.0,12.0 L252.0,12.0 L252.0,12.0 L252.0,12.0 L252.0,12.0 L252.0,12.0 L252.0,12.0 L252.0,12.0 L252.0,12.0 L252.0,12.0 L252.0,12.0 L252.0,12.0 L252.0,12.0 L252.0,12.0 L252.0,12.0 L252.0,12.0 L252.0,12.0 L252.0,12.0 L252.0,12.0 L252.0,12.0 L252.0,12.0 L252.0,12.0 L252.0,12.0 L252.0,12.0 L252.0,12.0 L252.0,12.0 L252.0,12.0 L252.0,12.0 L252.0,12.0 L252.0,12.0 L252.0,12.0 L252.0,12.0 L252.0,12.0 L252.0,12.0 L252.0,12.0 L252.0,12.0 L252.0,12.0 L252.0,12.0 L252.0,12.0 L252.0,12.0 L252.0,12.0 L252.0,12.0 L252.0,12.0 L252.0,12.0 L252.0,12.0 L252.0,12.0 L252.0,12.0 L252.0,12.0 L252.0,12.0 L252.0,12.0 L252.0,12.0 L12.0,12.0 Z"/></g>
-    <g fill="#D95F02"><circle cx="122" cy="48" r="8"/><circle cx="180" cy="24" r="8"/><circle cx="172" cy="82" r="8"/><circle cx="202" cy="156" r="8"/></g>
+    <g fill="#DCD2B8" stroke="#B7AB8E" stroke-width="1.5"><path d="M134.3,147.8 L132.4,157.0 L120.6,151.4 L121.2,148.4 L134.3,147.8 Z"/><path d="M106.3,130.8 L108.9,134.9 L108.3,142.4 L104.5,144.0 L101.6,132.3 L106.3,130.8 Z"/><path d="M107.8,125.4 L106.3,129.8 L103.3,124.8 L107.1,120.5 L107.8,125.4 Z"/><path d="M35.2,67.7 L21.0,70.2 L24.6,64.2 L22.3,58.4 L35.4,51.0 L40.2,54.5 L35.2,67.7 Z"/><path d="M52.0,31.2 L47.2,37.4 L56.6,36.7 L51.5,46.4 L56.1,46.8 L67.4,63.8 L72.8,64.9 L70.0,70.2 L71.8,73.2 L42.0,80.8 L39.7,79.7 L50.2,72.4 L41.9,69.2 L46.6,67.4 L44.1,64.3 L45.0,60.6 L51.6,61.1 L52.2,57.8 L43.8,53.2 L42.9,47.5 L40.5,50.2 L38.0,41.8 L43.1,31.3 L52.0,31.2 Z"/></g>
+    <g fill="#D95F02"><circle cx="122" cy="48" r="8"/><circle cx="180" cy="24" r="8"/><circle cx="168" cy="78" r="8"/><circle cx="202" cy="156" r="8"/></g>
     <g font-family="DejaVu Sans" font-size="12" font-weight="bold" fill="#191919">
-      <text x="134" y="52">CPH</text><text x="192" y="28">GOF</text><text x="184" y="86">LVV</text><text x="196" y="160">AYT</text>
+      <text x="134" y="52">CPH</text><text x="192" y="28">GOF</text><text x="180" y="82">LVV</text><text x="196" y="160">AYT</text>
     </g>
   </svg>
 </div>
@@ -114,7 +113,7 @@ body { width:2048px; height:2048px; background:#F6F1E5; font-family:'DejaVu Sans
 <div class="rail" style="left:1660px; top:700px;"><div class="fig">350,000</div><div class="lab">displaced in Yemen</div><div class="src">UN</div></div>
 <div class="rail" style="left:1304px; top:876px;"><div class="fig">&euro;204bn</div><div class="lab">EU cuts below plan</div><div class="src">EU COUNCIL</div></div>
 <div class="rail" style="left:1660px; top:876px;"><div class="fig">&euro;650m</div><div class="lab">a year from Indonesia deal</div><div class="src">EUROPEAN COMMISSION</div></div>
-<div class="rail" style="left:1304px; top:1052px;"><div class="fig">$5m</div><div class="lab">FBI reward, El Chapo Isidro</div><div class="src">FBI</div></div>
+<div class="rail" style="left:1304px; top:1052px;"><div class="fig">$5m</div><div class="lab">FBI reward, El Chapo Isidro</div><div class="src">US DOJ</div></div>
 <div class="rail" style="left:1660px; top:1052px;"><div class="fig">16</div><div class="lab">crew off Sparta II</div><div class="src">REUTERS</div></div>
 
 <!-- GRID 1212-1932 -->
@@ -150,7 +149,7 @@ body { width:2048px; height:2048px; background:#F6F1E5; font-family:'DejaVu Sans
 <div class="card" style="left:376px; top:1700px;"><div class="edge" style="background:#A63A2E;"></div><div class="kick" style="color:#A63A2E;">MIDDLE EAST &middot; YEMEN</div><div class="head">350,000 displaced<br>since August</div><div class="det">Aid access narrowing</div></div>
 <div class="card" style="left:704px; top:1700px;"><div class="edge" style="background:#6A5E8C;"></div><div class="kick" style="color:#6A5E8C;">OCEANIA &middot; NSW</div><div class="head">Fred Nile dies at 92</div><div class="det">40 years in parliament</div></div>
 <div class="card" style="left:1032px; top:1700px;"><div class="edge" style="background:#6A5E8C;"></div><div class="kick" style="color:#6A5E8C;">OCEANIA &middot; VICTORIA</div><div class="head">Election one<br>week out</div><div class="det">Labor MPs run a &lsquo;pre-mortem&rsquo;</div></div>
-<div class="card" style="left:1360px; top:1700px;"><div class="edge" style="background:#5A5A5A;"></div><div class="kick" style="color:#5A5A5A;">MARKETS &middot; CRYPTO</div><div class="head">Bitcoin bottoms<br>at $55,252</div><div class="det">$2.4bn futures liquidated</div></div>
+<div class="card" style="left:1360px; top:1700px;"><div class="edge" style="background:#5A5A5A;"></div><div class="kick" style="color:#5A5A5A;">MARKETS &middot; CRYPTO</div><div class="head">Bitcoin slides<br>to $55,252</div><div class="det">$2.4bn futures liquidated</div></div>
 <div class="card" style="left:1688px; top:1700px;"><div class="edge" style="background:#5A5A5A;"></div><div class="kick" style="color:#5A5A5A;">SPORT &middot; LAS VEGAS</div><div class="head">Antonelli fast,<br>Verstappen pole</div><div class="det">Grid penalty &middot; race today</div></div>
 
 <div class="card" style="left:48px; top:1822px;"><div class="edge" style="background:#5A5A5A;"></div><div class="kick" style="color:#5A5A5A;">SPORT &middot; TURIN</div><div class="head">Zverev, Alcaraz<br>into final</div><div class="det">Final today in Turin</div></div>
@@ -159,20 +158,20 @@ body { width:2048px; height:2048px; background:#F6F1E5; font-family:'DejaVu Sans
 <!-- DATE CHECK 704,1822 1296x110 -->
 <div class="dc">
   <div class="lab">DATE CHECK</div>
-  <div class="cell" style="left:16px; top:36px;"><div class="fig">400 drones &middot; 110 missiles</div><div class="sub">27 ballistic, 19&ndash;20 Nov</div></div>
-  <div class="cell" style="left:340px; top:36px;"><div class="fig">Two M6.9 quakes</div><div class="sub">Peru 00:09Z &middot; Banda 09:42Z</div></div>
-  <div class="cell" style="left:664px; top:36px;"><div class="fig">98.5% tariffs gone</div><div class="sub">EU&ndash;Indonesia deal</div></div>
-  <div class="cell" style="left:988px; top:36px;"><div class="fig">856 candidates &middot; 723 seats</div><div class="sub">Hong Kong votes today</div></div>
-  <div class="cell" style="left:16px; top:74px;"><div class="fig">Gaza 1,671</div><div class="sub">dead since the truce</div></div>
-  <div class="cell" style="left:340px; top:74px;"><div class="fig">$55,252 &rarr; $60,230</div><div class="sub">Bitcoin, two-year low</div></div>
-  <div class="cell" style="left:664px; top:74px;"><div class="fig">$2.4bn liquidated</div><div class="sub">crypto futures, one day</div></div>
-  <div class="cell" style="left:988px; top:74px;"><div class="fig">Sumo 12&ndash;2</div><div class="sub">leaders tied, final day</div></div>
+  <div class="cell" style="left:24px; top:33px;"><span class="fig" style="font-size:17px;">400 drones &middot; 110 missiles</span><span class="sub">27 ballistic</span></div>
+  <div class="cell" style="left:348px; top:33px;"><span class="fig">Two M6.9 quakes</span><span class="sub">Peru &middot; Banda 09:42Z</span></div>
+  <div class="cell" style="left:672px; top:33px;"><span class="fig">98.5% tariffs gone</span><span class="sub">EU&ndash;Indonesia deal</span></div>
+  <div class="cell" style="left:996px; top:33px;"><span class="fig">856 candidates &middot; 723 seats</span></div>
+  <div class="cell" style="left:24px; top:69px;"><span class="fig">Gaza 1,671</span><span class="sub">dead since the truce</span></div>
+  <div class="cell" style="left:348px; top:69px;"><span class="fig">$55,252 &rarr; $60,230</span><span class="sub">BTC two-year low</span></div>
+  <div class="cell" style="left:672px; top:69px;"><span class="fig">$2.4bn liquidated</span><span class="sub">crypto futures</span></div>
+  <div class="cell" style="left:996px; top:69px;"><span class="fig">Sumo 12&ndash;2</span><span class="sub">leaders tied, final day</span></div>
 </div>
 
 <!-- FOOTER 1932-2048 -->
 <div class="rule" style="left:48px; top:1940px; width:1952px; height:2px;"></div>
-<div class="foot" style="top:1950px;">1 BAHRAIN &middot; 2 LVIV &middot; 3 GULF OF FINLAND &middot; 4 COPENHAGEN &middot; 5 ANTALYA &middot; 6 HONG KONG &middot; 7 PERU &middot; 8 BANDA SEA &middot; 9 SINALOA &middot; 10 BRAS&Iacute;LIA &middot; 11 BAYELSA &middot; 12 MOYALE</div>
-<div class="foot" style="top:1982px;">PHOTOS: USS THE SULLIVANS, US NAVY (PUBLIC DOMAIN) &middot; LVIV, FRANCISCO ANZOLA, CC BY-SA &middot; ANTALYA, CRYMAKER, CC BY-SA 2.5</div>
-<div class="foot" style="top:2014px;">NEWS-IMAGE-20261122 &middot; SUM UP 22 NOVEMBER&rsquo;S WORLD NEWS IN ONE IMAGE &middot; MAKE.FUN</div>
+<div class="foot" style="top:1934px;">1 BAHRAIN &middot; 2 LVIV &middot; 3 GULF OF FINLAND &middot; 4 COPENHAGEN &middot; 5 ANTALYA &middot; 6 HONG KONG &middot; 7 PERU &middot; 8 BANDA SEA &middot; 9 SINALOA &middot; 10 BRAS&Iacute;LIA &middot; 11 BAYELSA &middot; 12 MOYALE</div>
+<div class="foot" style="top:1966px;">PHOTOS: USS THE SULLIVANS, US NAVY (PUBLIC DOMAIN) &middot; LVIV, FRANCISCO ANZOLA, CC BY-SA &middot; ANTALYA, CRYMAKER, CC BY-SA 2.5</div>
+<div class="foot" style="top:1998px;">NEWS-IMAGE-20261122 &middot; SUM UP 22 NOVEMBER&rsquo;S WORLD NEWS IN ONE IMAGE &middot; MAKE.FUN</div>
 
 </body></html>
